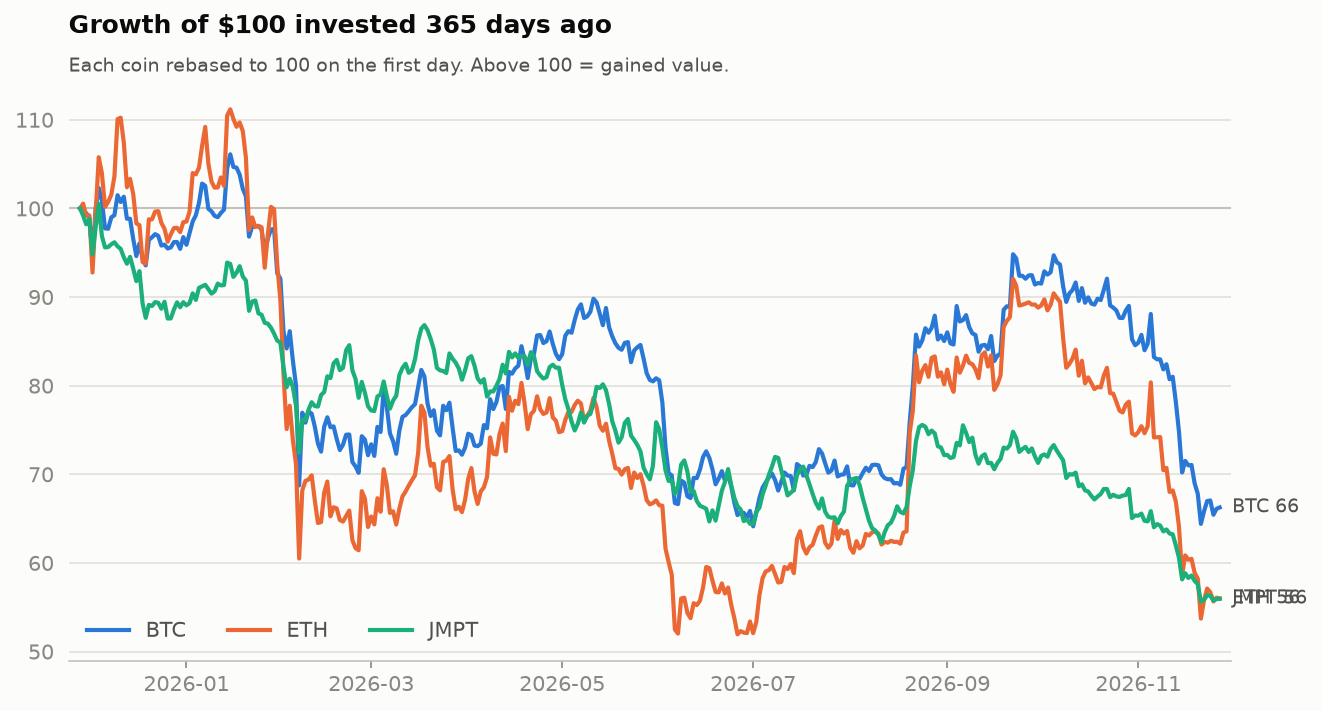
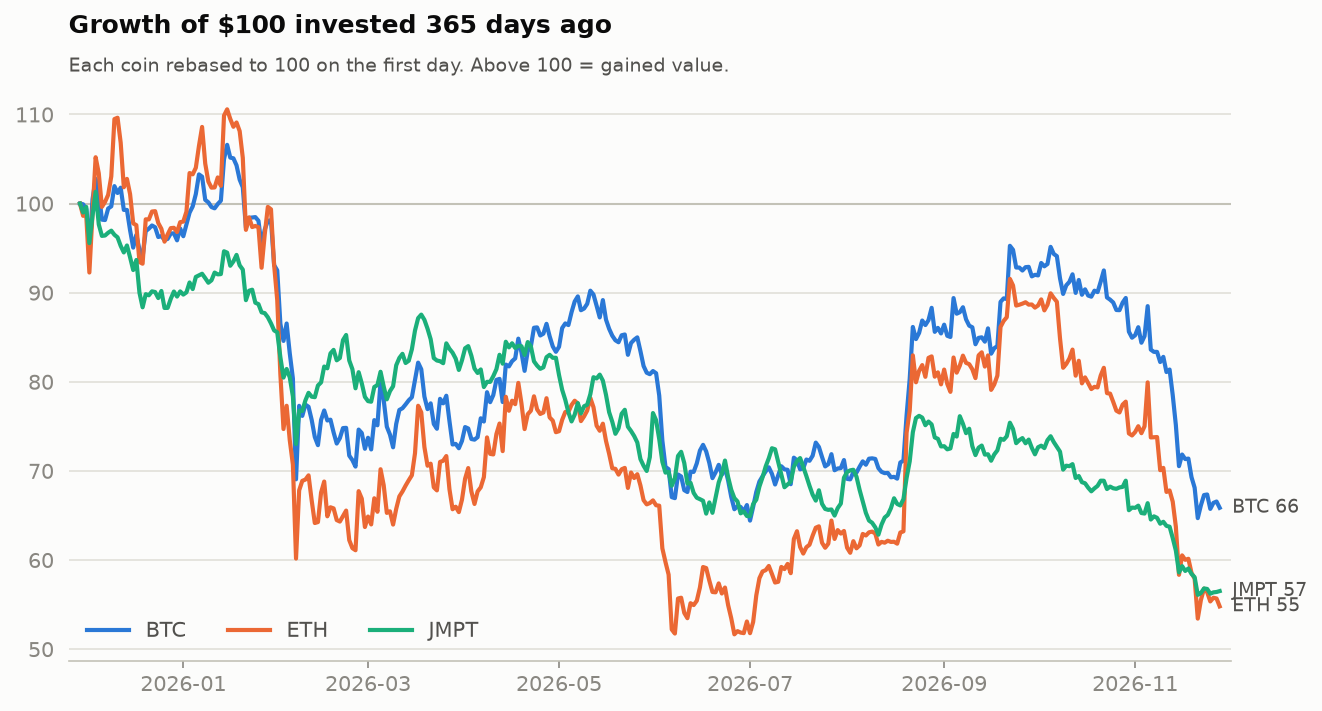
data: market update 2026-11-28

Changed region(s): [[0.0, 0.1547, 0.9924, 0.9902]]

diff --git a/README.md b/README.md
@@ -9,13 +9,13 @@ The project compares two of the largest cryptocurrencies with a small-cap token:
 ## Latest stats
 
 <!-- STATS:START -->
-_Snapshot as of **2026-11-27 00:00 UTC**. Updated automatically every day._
+_Snapshot as of **2026-11-28 00:00 UTC**. Updated automatically every day._
 
 | Coin | Price | 1 day | 7 days | 30 days | 1 year | Volatility (30d) | Market cap |
 |:--|--:|--:|--:|--:|--:|--:|--:|
-| **BTC** Bitcoin | $60,510 | ▲ +0.2% | ▼ -2.3% | ▼ -25.1% | ▼ -33.1% | 48% | $1.22T |
-| **ETH** Ethereum | $1,688 | ▼ -0.2% | ▼ -3.9% | ▼ -28.1% | ▼ -44.2% | 66% | $206.35B |
-| **JMPT** JumpToken | $0.4434 | ▲ +0.1% | ▼ -2.9% | ▼ -17.3% | ▼ -43.9% | 30% | $6.54M |
+| **BTC** Bitcoin | $59,872 | ▼ -1.1% | ▲ +1.8% | ▼ -26.3% | ▼ -34.4% | 47% | $1.20T |
+| **ETH** Ethereum | $1,661 | ▼ -1.6% | ▲ +2.6% | ▼ -29.5% | ▼ -44.9% | 66% | $203.08B |
+| **JMPT** JumpToken | $0.4442 | ▲ +0.2% | ▲ +0.8% | ▼ -18.0% | ▼ -43.9% | 30% | $6.56M |
 <!-- STATS:END -->
 
 ## Charts
